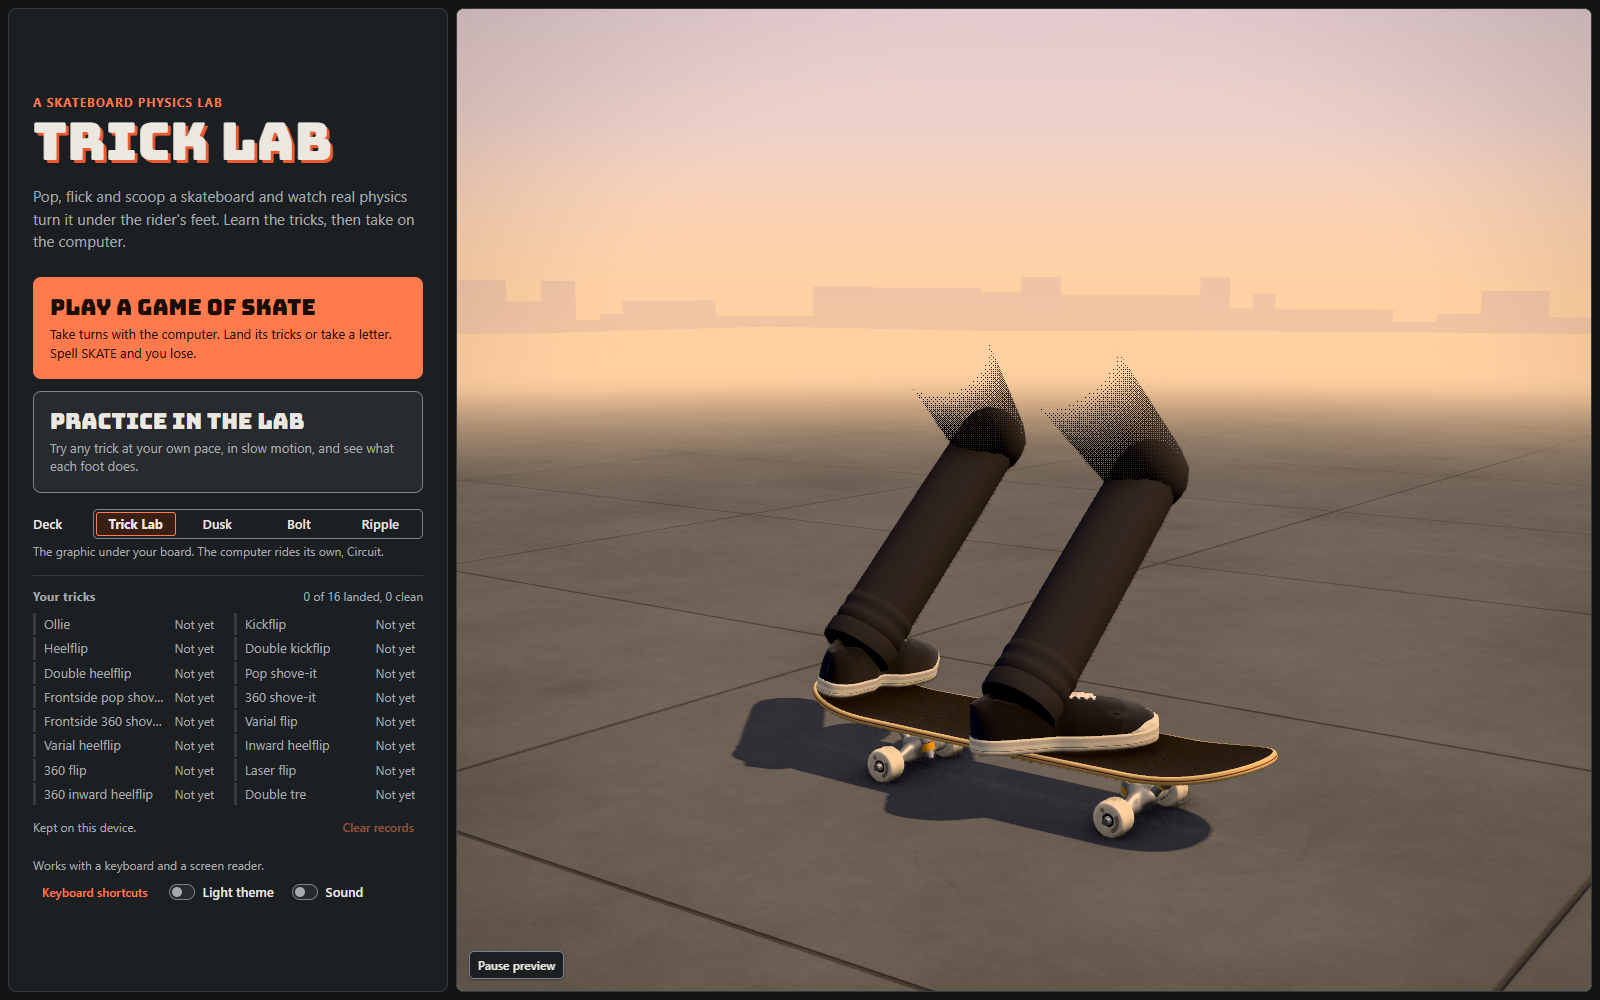
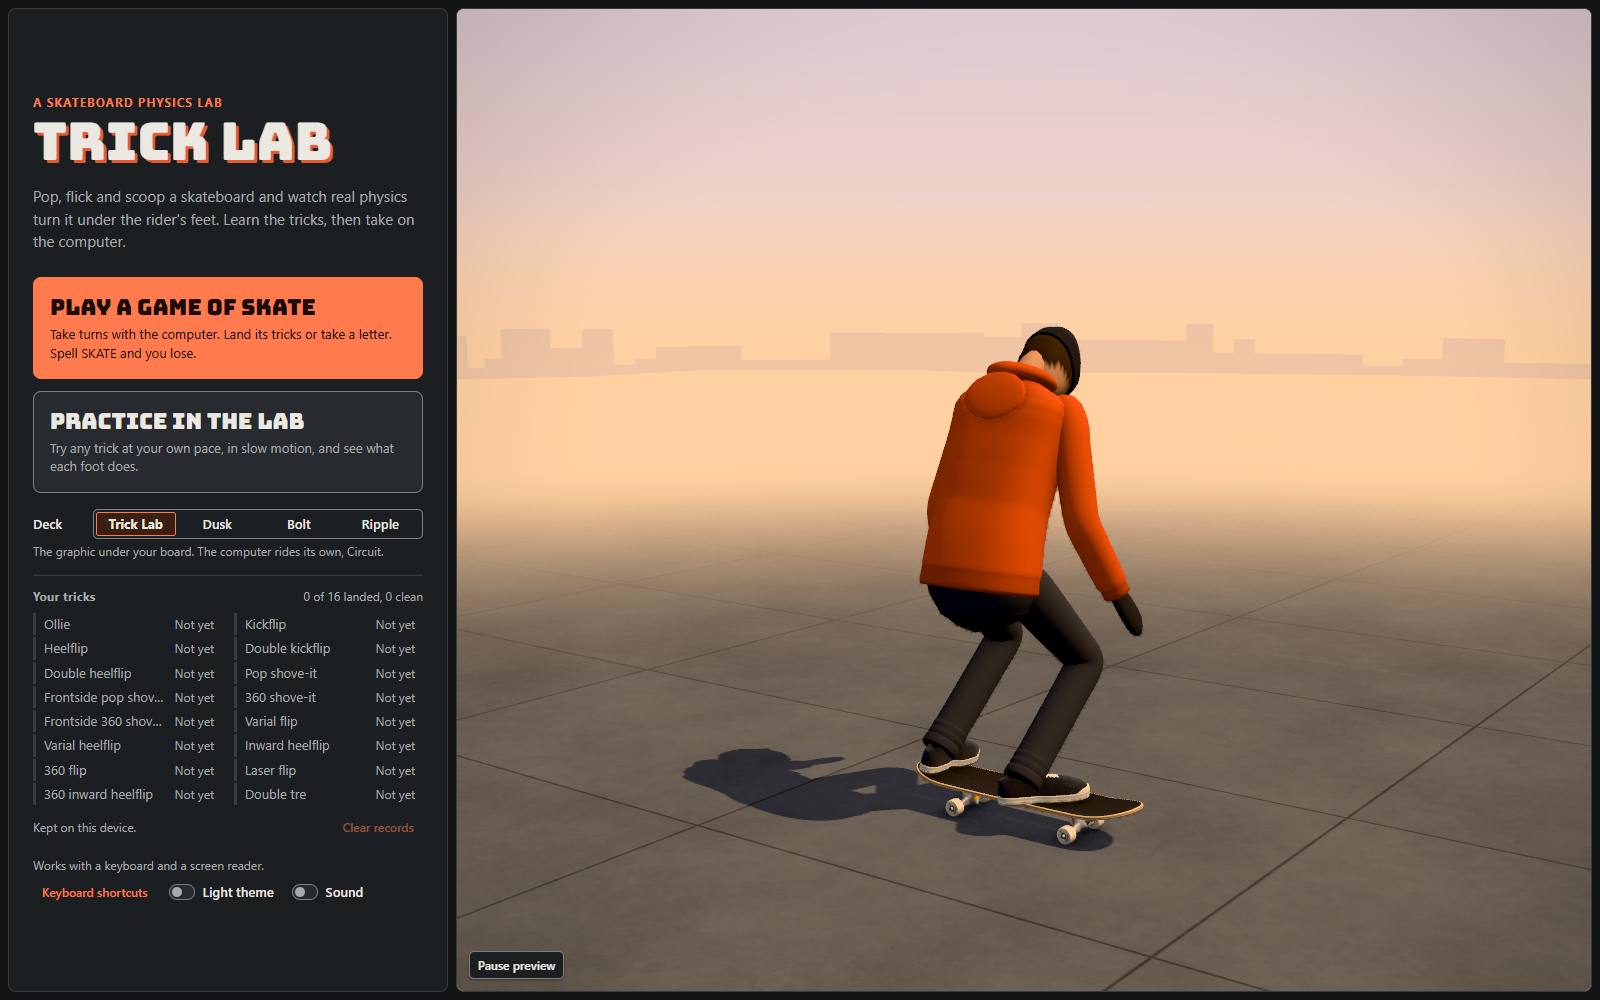
Retake the README pictures with the polish pass (ADR-86)
welcome.png and skate-your-turn.png at their old size (1600 x 1000) from the
production build on High, dark theme: the welcome screen with the whole
rider, and the player's go on Filmer with the bar running in its strip, the
rider crouched, the zones on the sliders. skate-turn.gif at its old size
(480 x 300): a whole turn in slow motion from Filmer, recorded with
Chromium's screencast and made with ffmpeg (10 frames a second, 96
colours, 2.6 MB; the old one was 2.2 MB). The alt texts say what is new.

diff --git a/README.md b/README.md
@@ -8,7 +8,7 @@
 
 A browser 3D physics lab about rotation in projectile flight, taught through skateboard flip tricks. Set the pop height, flick rate and scoop rate, pop, and watch the board flip and spin under the rider's feet. The lab names the trick you made and tells you whether you landed it, or which way you over- or under-rotated.
 
-![The welcome screen: the title, the two choices, the deck choice and the list of tricks, beside the live preview of the board and the rider's legs under a golden-hour sky with a faint city, on High quality](docs/screenshots/welcome.png)
+![The welcome screen: the title, the two choices, the deck choice and the list of tricks, beside the live preview of the whole rider on the board under a golden-hour sky with a faint city, on High quality](docs/screenshots/welcome.png)
 
 ## Features
 
@@ -32,16 +32,16 @@ A browser 3D physics lab about rotation in projectile flight, taught through ska
 
 | | |
 | --- | --- |
-| ![The game of SKATE: your turn, a kickflip called, the timing bar running under Pop, the board rolling past the skate spot, with the turn card, the letters, the camera choice and the sliders over the stage](docs/screenshots/skate-your-turn.png) | ![The lab in the light theme: a varial flip just landed, the celebration over the stage, with Foot motion open](docs/screenshots/lab-landed-light.png) |
-| The game: whose turn and the trick, large, in slow motion | The lab: a landed varial flip, its celebration, and Foot motion open, light theme |
+| ![The game of SKATE: your turn, a kickflip called, the rider crouched for the pop as the timing bar runs along the bottom of the stage, the board rolling past the skate spot, with the turn card, the letters and the camera choice above, the sliders with their green landing zones bottom left and Pop bottom right](docs/screenshots/skate-your-turn.png) | ![The lab in the light theme: a varial flip just landed, the celebration over the stage, with Foot motion open](docs/screenshots/lab-landed-light.png) |
+| The game: whose turn and the trick, the rider framed clear of the cards | The lab: a landed varial flip, its celebration, and Foot motion open, light theme |
 
 ![A 360 flip in slow motion, from the lab's detail view on High: the board pops, flips and spins a full turn under the shoes, and lands](docs/screenshots/360-flip-slow-motion.gif)
 
 A 360 flip at about a fifth of its speed, stepped through the lab's timeline.
 
-![A turn in the game of SKATE, in slow motion: the board pushes off, rolls past the kerb and the ledge, pops a 360 flip, lands clean and rolls away](docs/screenshots/skate-turn.gif)
+![A turn in the game of SKATE, in slow motion: the rider rolls past the kerb and the ledge, sinks into the crouch as the timing bar starts, pops a 360 flip with the camera rising alongside, lands clean and rolls away](docs/screenshots/skate-turn.gif)
 
-A turn in the game, in slow motion: push off, pop, land and roll away.
+A turn in the game, in slow motion: wind up, pop, land and roll away.
 
 ## Quick start
 
